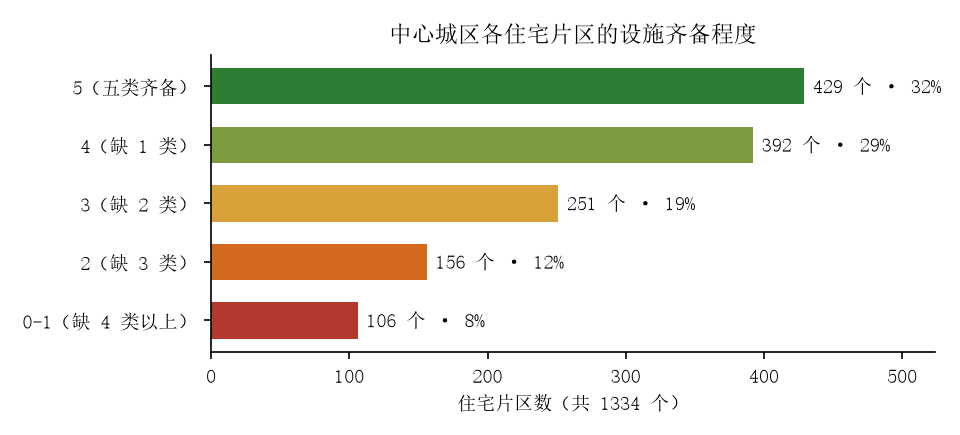
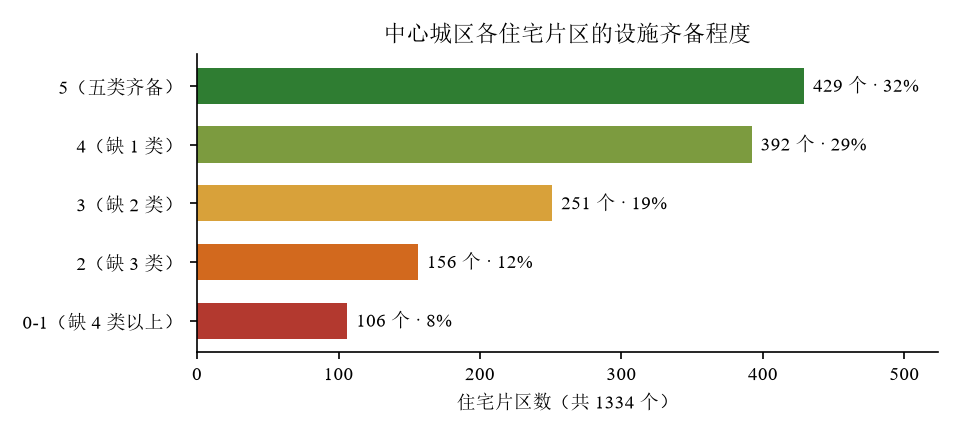
修正中西文字体顺序：西文 Times New Roman 在前、中文逐字回退宋体（此前全走宋体拉丁字形）

diff --git a/docs/客户视角样例.html b/docs/客户视角样例.html
@@ -5,7 +5,7 @@
  :root { --ink:#1c1c1c; --muted:#666; --line:#e2e2e2; --bg:#fbfbfa; }
  * { box-sizing:border-box; }
  body { margin:0; padding:36px 44px 56px; background:var(--bg); color:var(--ink);
-        font-family:"SimSun","Times New Roman",serif; line-height:1.75; max-width:960px; }
+        font-family:"Times New Roman","SimSun",serif; line-height:1.75; max-width:960px; }
  h1 { font-size:26px; margin:0 0 6px; letter-spacing:.5px; }
  .sub { color:var(--muted); font-size:13px; margin-bottom:26px; }
  h2 { font-size:17px; margin:34px 0 10px; padding-left:9px; border-left:4px solid #2f7d32; }

diff --git a/make_client_report.py b/make_client_report.py
@@ -26,7 +26,8 @@ CJK = "SimSun"
 if not any(CJK in f.name for f in font_manager.fontManager.ttflist):
     CJK = "Microsoft YaHei"
 plt.rcParams.update({
-    "font.family": [CJK, "Times New Roman"],
+    # 顺序要紧：先 Times New Roman（西文数字走它），中文再逐字回退到宋体
+    "font.family": ["Times New Roman", CJK],
     "axes.unicode_minus": False,
     "figure.dpi": 150,
 })
@@ -171,7 +172,7 @@ def main():
  :root {{ --ink:#1c1c1c; --muted:#666; --line:#e2e2e2; --bg:#fbfbfa; }}
  * {{ box-sizing:border-box; }}
  body {{ margin:0; padding:36px 44px 56px; background:var(--bg); color:var(--ink);
-        font-family:"SimSun","Times New Roman",serif; line-height:1.75; max-width:960px; }}
+        font-family:"Times New Roman","SimSun",serif; line-height:1.75; max-width:960px; }}
  h1 {{ font-size:26px; margin:0 0 6px; letter-spacing:.5px; }}
  .sub {{ color:var(--muted); font-size:13px; margin-bottom:26px; }}
  h2 {{ font-size:17px; margin:34px 0 10px; padding-left:9px; border-left:4px solid {accent}; }}
